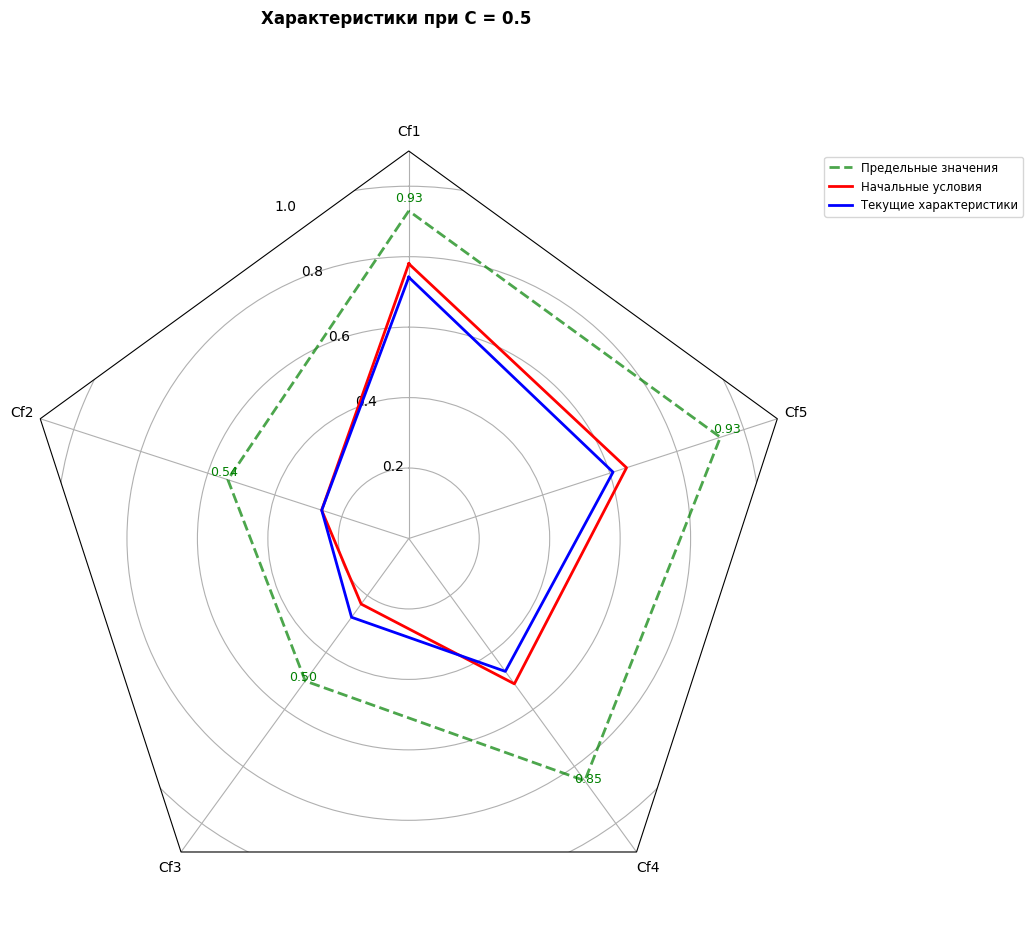
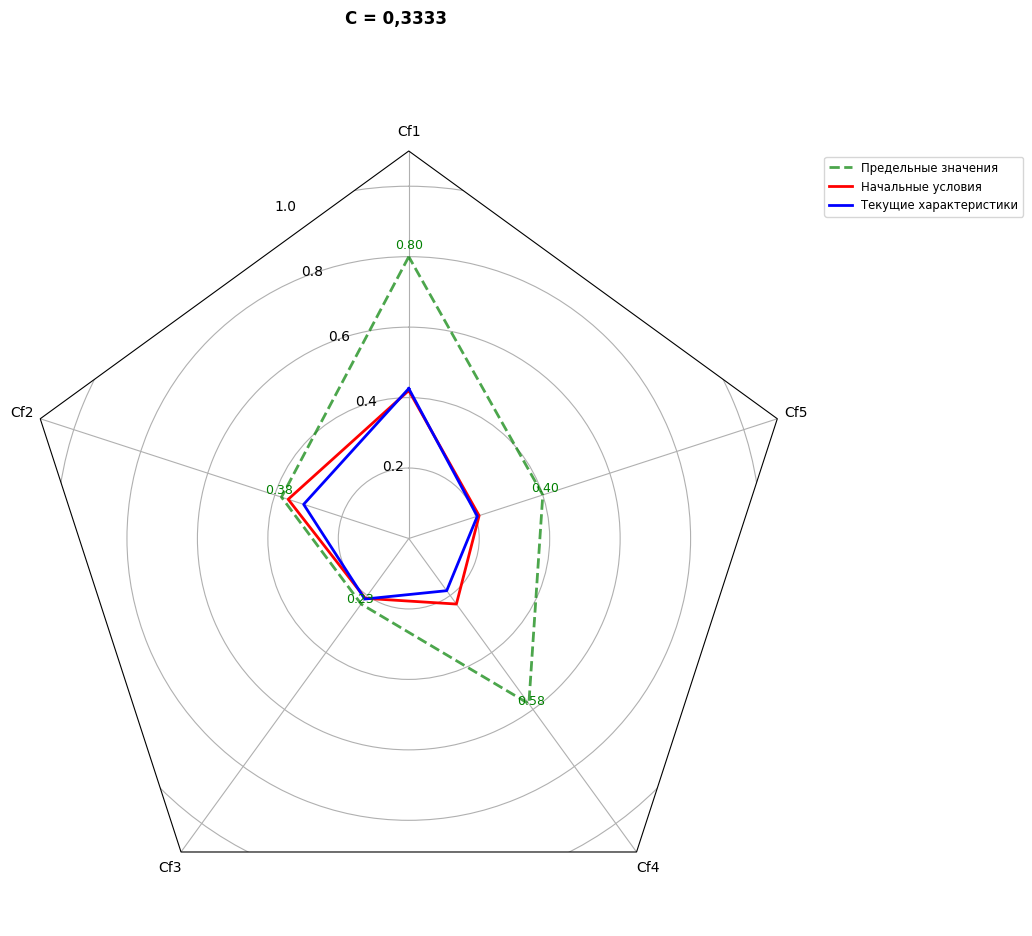
графики и диаграммы исправлены

diff --git a/templates/diagrams.html b/templates/diagrams.html
@@ -228,49 +228,57 @@
                 </div>
                 
                 <div class="diagrams-grid" id="diagrams-grid">
-                    <!-- Диаграммы будут загружены здесь динамически -->
+                    <!-- Diagram 1: C = 0 -->
                     <div class="diagram-item">
-                        <h3>Начальный момент (C = 0)</h3>
-                        <p class="diagram-description">Характеристики при нулевой концентрации загрязняющих веществ</p>
+                        <h3>C = 0</h3>
                         <div class="image-container">
                             <img src="/static/images/diagram_eco.png" class="diagram-img" 
                                  onerror="this.style.display='none'" id="diagram1">
                         </div>
                     </div>
                     
+                    <!-- Diagram 2: C = 0,1667 -->
                     <div class="diagram-item">
-                        <h3>1 четверть концентрации (C = 0.25)</h3>
-                        <p class="diagram-description">Характеристики при концентрации 25% от максимальной</p>
+                        <h3>C = 0,1667</h3>
                         <div class="image-container">
                             <img src="/static/images/diagram_eco2.png" class="diagram-img" 
                                  onerror="this.style.display='none'" id="diagram2">
                         </div>
                     </div>
                     
+                    <!-- Diagram 3: C = 0,3333 -->
                     <div class="diagram-item">
-                        <h3>2 четверть концентрации (C = 0.5)</h3>
-                        <p class="diagram-description">Характеристики при концентрации 50% от максимальной</p>
+                        <h3>C = 0,3333</h3>
                         <div class="image-container">
                             <img src="/static/images/diagram_eco3.png" class="diagram-img" 
                                  onerror="this.style.display='none'" id="diagram3">
                         </div>
                     </div>
                     
+                    <!-- Diagram 4: C = 0,5 -->
                     <div class="diagram-item">
-                        <h3>3 четверть концентрации (C = 0.75)</h3>
-                        <p class="diagram-description">Характеристики при концентрации 75% от максимальной</p>
+                        <h3>C = 0,5</h3>
                         <div class="image-container">
                             <img src="/static/images/diagram_eco4.png" class="diagram-img" 
                                  onerror="this.style.display='none'" id="diagram4">
                         </div>
                     </div>
                     
+                    <!-- Diagram 5: C = 0,6667 -->
                     <div class="diagram-item">
-                        <h3>Конечный момент (C = 1.0)</h3>
-                        <p class="diagram-description">Характеристики при максимальной концентрации загрязняющих веществ</p>
+                        <h3>C = 0,6667</h3>
                         <div class="image-container">
                             <img src="/static/images/diagram_eco5.png" class="diagram-img" 
                                  onerror="this.style.display='none'" id="diagram5">
+                        </div>
+                    </div>
+                    
+                    <!-- Diagram 6: C = 1 -->
+                    <div class="diagram-item">
+                        <h3>C = 1</h3>
+                        <div class="image-container">
+                            <img src="/static/images/diagram_eco6.png" class="diagram-img" 
+                                 onerror="this.style.display='none'" id="diagram6">
                         </div>
                     </div>
                 </div>

diff --git a/static/js/diagramsChecker.js b/static/js/diagramsChecker.js
@@ -10,7 +10,7 @@ if (status !== "Выполнено") {
         </div>
     `
 } else {
-    const diagrams = ['diagram1', 'diagram2', 'diagram3', 'diagram4', 'diagram5']
+    const diagrams = ['diagram1', 'diagram2', 'diagram3', 'diagram4', 'diagram5', 'diagram6']
     
     diagrams.forEach((id, index) => {
         const img = document.getElementById(id)

diff --git a/process_ecology.py b/process_ecology.py
@@ -4,6 +4,8 @@ matplotlib.use('Agg')
 import matplotlib.pyplot as plt
 import numpy as np
 from scipy.integrate import odeint
+from scipy.interpolate import PchipInterpolator
+from scipy.interpolate import make_interp_spline
 import logging
 
 from functions import pend, calculate_total_loss, fx_linear  
@@ -20,27 +22,25 @@ def fill_diagrams(data, initial_equations, restrictions):
     clipped_restrictions = np.clip(restrictions, 0, 1.0)
 
     conc_indices = [
-        0,                    # C = 0
-        int(len(data) / 4),   # C = 0.25
-        int(len(data) / 2),   # C = 0.5
-        int(3 * len(data) / 4), # C = 0.75
-        -1                    # C = 1.0
+        0,                                # C = 0.0
+        int(len(data) * 1/6),            # C ≈ 0.1667
+        int(len(data) * 2/6),            # C ≈ 0.3333
+        int(len(data) * 3/6),            # C = 0.5
+        int(len(data) * 4/6),            # C ≈ 0.6667
+        -1                                # C = 1.0
     ]
     
-    titles = [
-        "Характеристики при C = 0 (начальная концентрация)",
-        "Характеристики при C = 0.25",
-        "Характеристики при C = 0.5", 
-        "Характеристики при C = 0.75",
-        "Характеристики при C = 1.0 (максимальная концентрация)"
-    ]
+    c_values = [0.0, 1/6, 2/6, 3/6, 4/6, 1.0]
+    # Форматируем значения с запятой в качестве разделителя дробной части
+    titles = [f"C = {c:.4f}".replace('.', ',') for c in c_values]
     
     filenames = [
         './static/images/diagram_eco.png',
         './static/images/diagram_eco2.png',
         './static/images/diagram_eco3.png',
         './static/images/diagram_eco4.png',
-        './static/images/diagram_eco5.png'
+        './static/images/diagram_eco5.png',
+        './static/images/diagram_eco6.png'
     ]
 
     for i, (idx, title, fname) in enumerate(zip(conc_indices, titles, filenames)):
@@ -86,8 +86,38 @@ def create_graphic(C, data):
     label_positions_x = np.linspace(0.1, 0.4, num_lines)
     
     for i in range(5):
+
         y_data = np.clip(data[:, i], 0, 1.0)
-        ax.plot(C, y_data, color=colors[i], linewidth=2.5, label=labels[i])
+
+
+        for j in range(1, len(y_data)):
+            y_data[j] = max(y_data[j], y_data[j-1])
+
+    
+        gamma_cf = [2.8, 2.2, 1.6, 3.0, 2.0]  # можно одинаковые
+        y_data = y_data ** (1 / gamma_cf[i])
+        
+        
+        # Обеспечиваем монотонное возрастание
+        
+        # Создаем сглаженную версию графика с помощью сплайнов
+        if len(C) > 3:  # Для сплайна нужно минимум 4 точки
+            # Увеличиваем количество точек для более плавного графика
+            C_smooth = np.linspace(C.min(), C.max(), 200)
+            
+            # Создаем сплайн с небольшим сглаживанием (s=0.5)
+            interp = PchipInterpolator(C, y_data)  # k=3 для кубического сплайна
+            y_smooth = interp(C_smooth)
+            
+            # Убедимся, что сплайн не выходит за границы [0, 1]
+            y_smooth = np.clip(y_smooth, 0, 1.0)
+            
+            # Строим сглаженный график
+            ax.plot(C_smooth, y_smooth, color=colors[i], linewidth=2.5, label=labels[i])
+        else:
+            # Если точек слишком мало для сплайна, рисуем обычный график
+            ax.plot(C, y_data, color=colors[i], linewidth=2.5, label=labels[i])
+        
         x_pos = label_positions_x[i]
  
         closest_idx = np.argmin(np.abs(C - x_pos))
@@ -172,6 +202,10 @@ def create_graphic(C, data):
     plt.tight_layout(pad=3.0)
     fig.savefig('./static/images/figure_eco.png', bbox_inches='tight', dpi=150)
     plt.close(fig)
+
+
+
+
 
 
 def cast_to_float(initial_equations, faks, equations, restrictions):
@@ -297,10 +331,13 @@ def create_disturbances_graphic(C, faks, time_value=0.0):
     for i in range(6, min(10, len(faks))):
         if i < len(faks) and len(faks[i]) >= 2:
             curve = []
+            max_val = 0.0
             for c_val in C:
                 value = fx_linear(c_val, faks[i])
                 value = max(0.0, min(1.0, value))
-                curve.append(value)
+                # Обеспечиваем монотонное возрастание
+                max_val = max(max_val, value)
+                curve.append(max_val)
             curves_1.append((i, curve))
     
     num_curves_1 = len(curves_1)
@@ -383,10 +420,13 @@ def create_disturbances_graphic(C, faks, time_value=0.0):
     for i in range(10, min(14, len(faks))):
         if i < len(faks) and len(faks[i]) >= 2:
             curve = []
+            max_val = 0.0
             for c_val in C:
                 value = fx_linear(c_val, faks[i])
                 value = max(0.0, min(1.0, value))
-                curve.append(value)
+                # Обеспечиваем монотонное возрастание
+                max_val = max(max_val, value)
+                curve.append(max_val)
             curves_2.append((i, curve))
 
     num_curves_2 = len(curves_2)

diff --git a/radar_diagram.py b/radar_diagram.py
@@ -121,6 +121,12 @@ class RadarDiagram:
                 ax.text(angle, value * 1.02, f'{value:.2f}', 
                     color='green', fontsize=9, ha='center', va='bottom')
 
-        fig.text(0.5, 0.965, title, horizontalalignment='center', color='black', weight='bold', size='large')
+        # Устанавливаем заголовок с русскими символами
+        fig.text(0.5, 0.965, title, 
+                horizontalalignment='center', 
+                color='black', 
+                weight='bold', 
+                size='large',
+                fontproperties={'family': 'DejaVu Sans', 'size': 12})
         fig.savefig(filename, bbox_inches='tight')
         plt.close(fig)
